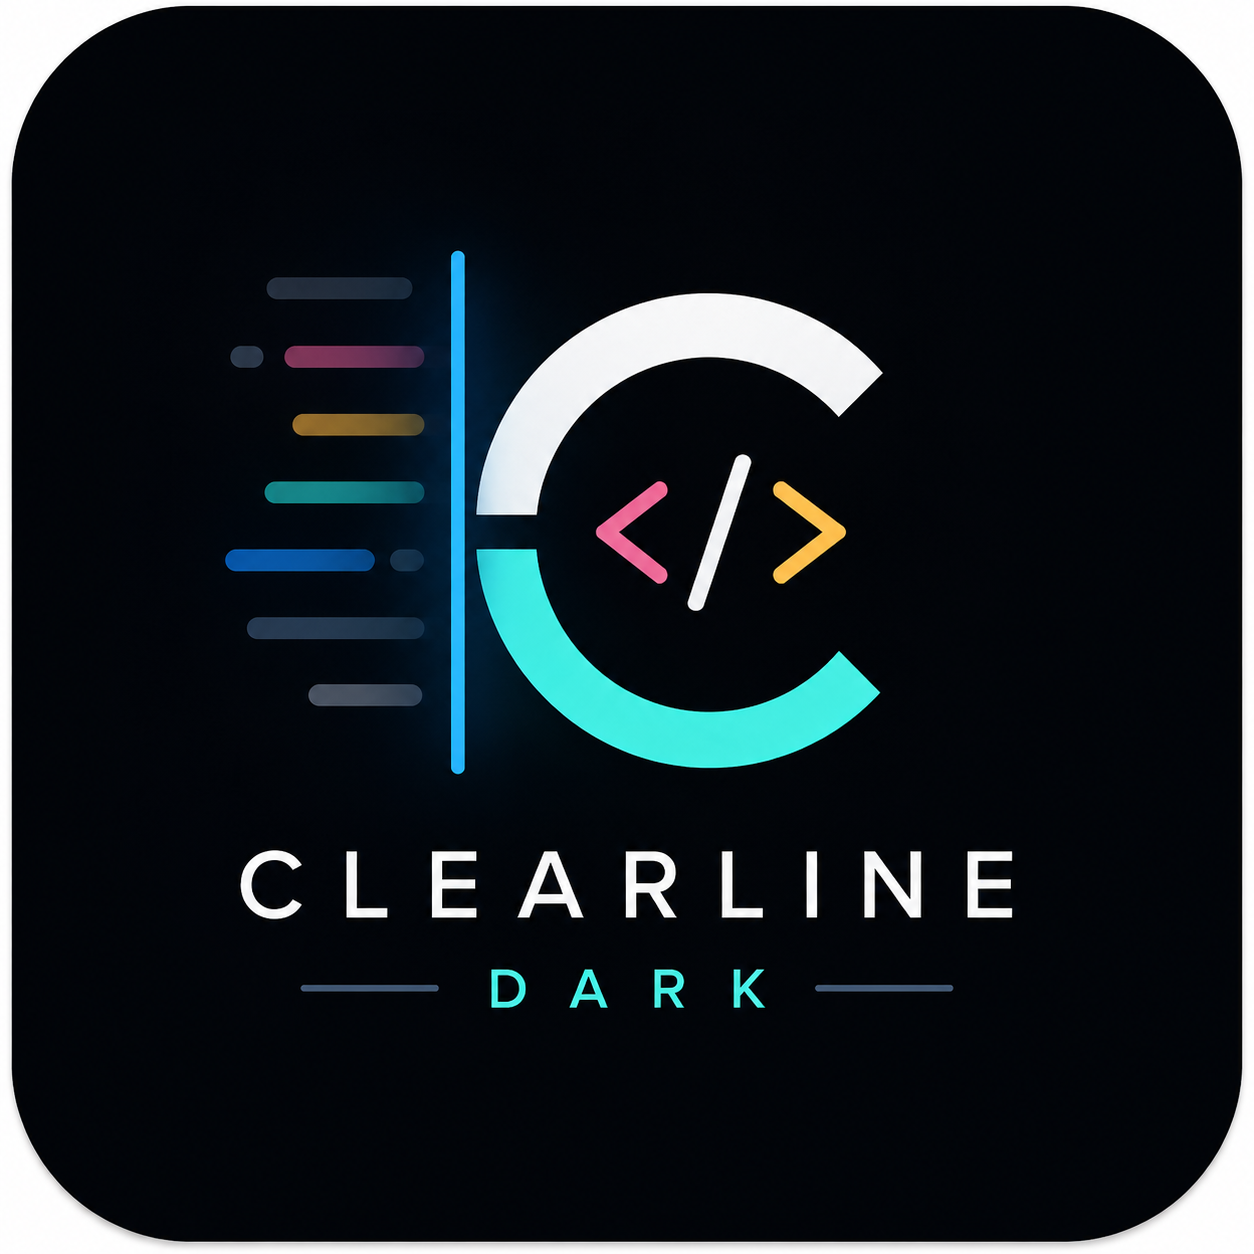
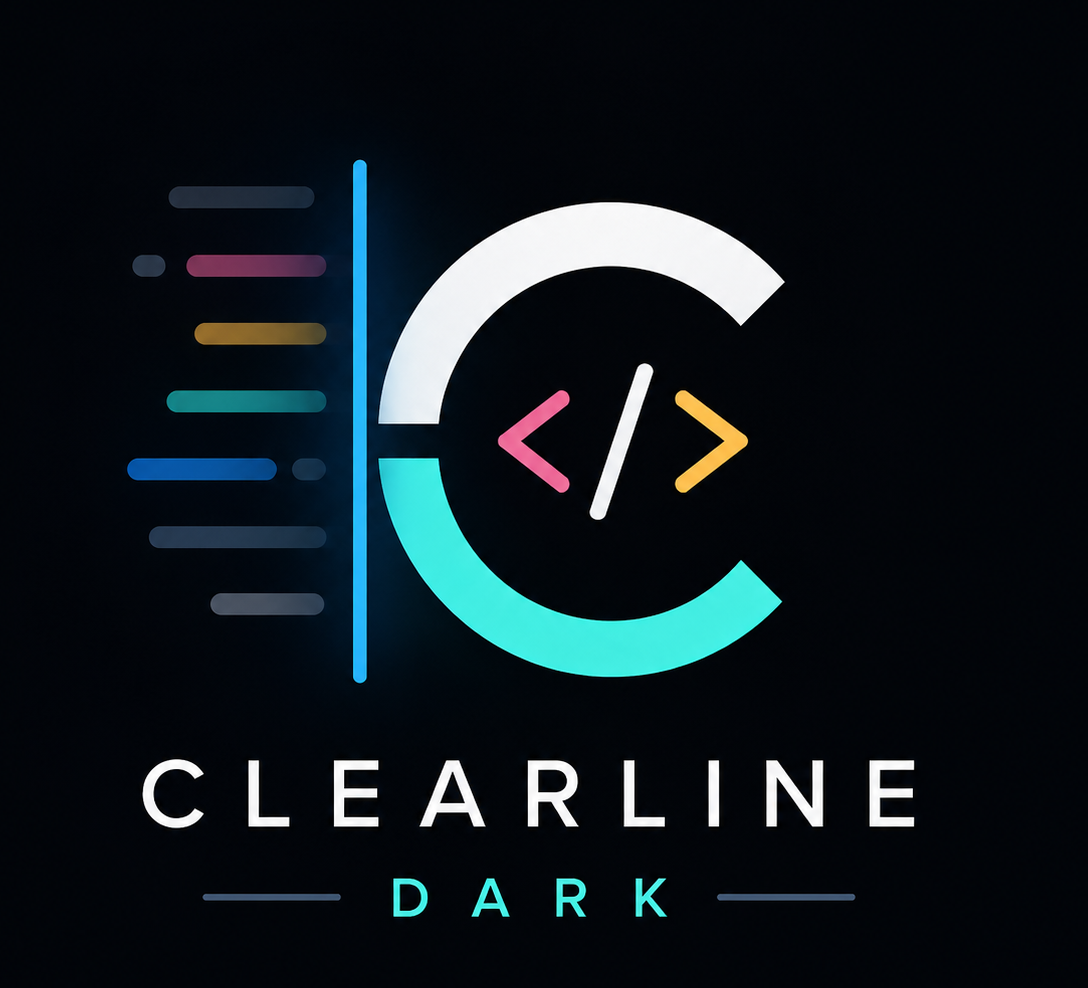
1.0.2

diff --git a/README.md b/README.md
@@ -1,12 +1,30 @@
-# Clearline Dark
+# Clearline
 
-Dsigned for readability.
+A dark VS Code theme designed for readability.
+
+## Preview
+
+<p align="center">
+  <img src="images/preview-python.png" alt="Clearline Dark theme preview with Python code" width="780">
+</p>
+
+<p align="center">
+  <img src="images/preview-json.png" alt="Clearline Dark theme preview with JSON and package.json" width="780">
+</p>
+
+## Installation
+
+1. Open **Extensions** in VS Code or Cursor
+2. Search for **Clearline**
+3. Click **Install**
+4. Open the Command Palette (`Cmd+Shift+P` on macOS, `Ctrl+Shift+P` on Windows/Linux)
+5. Run **Preferences: Color Theme**
+6. Select **Clearline-Dark**
 
 ## Credits
 
 Based on [ChatGP-Theme](https://github.com/0xJariel/ChatGP-Theme) by [0xJariel](https://github.com/0xJariel).
 
-Licensed under [CC BY-NC-SA 4.0](https://creativecommons.org/licenses/by-nc-sa/4.0/).
-This version includes modifications (renamed to **Clearline Dark**, republished under `tom0411`).
+Licensed under [CC BY-NC-SA 4.0](https://creativecommons.org/licenses/by-nc-sa/4.0/). This theme is modified from the original, renamed to **Clearline Dark**, and published by [tom0411](https://github.com/tom0411).
 
-Vibe coded by with **Cursor Grok 4.5**.
+Made with Cursor Grok 4.5

diff --git a/CHANGELOG.md b/CHANGELOG.md
@@ -6,5 +6,15 @@ Check [Keep a Changelog](http://keepachangelog.com/) for recommendations on how 
 
 ## [Unreleased]
 
+## [1.0.2]
+
+- Regenerated README with fixed preview layout and installation steps
+
+## [1.0.1]
+
+- Added README preview screenshots
+
+## [1.0.0]
+
 - Renamed to Clearline Dark
 - Initial release